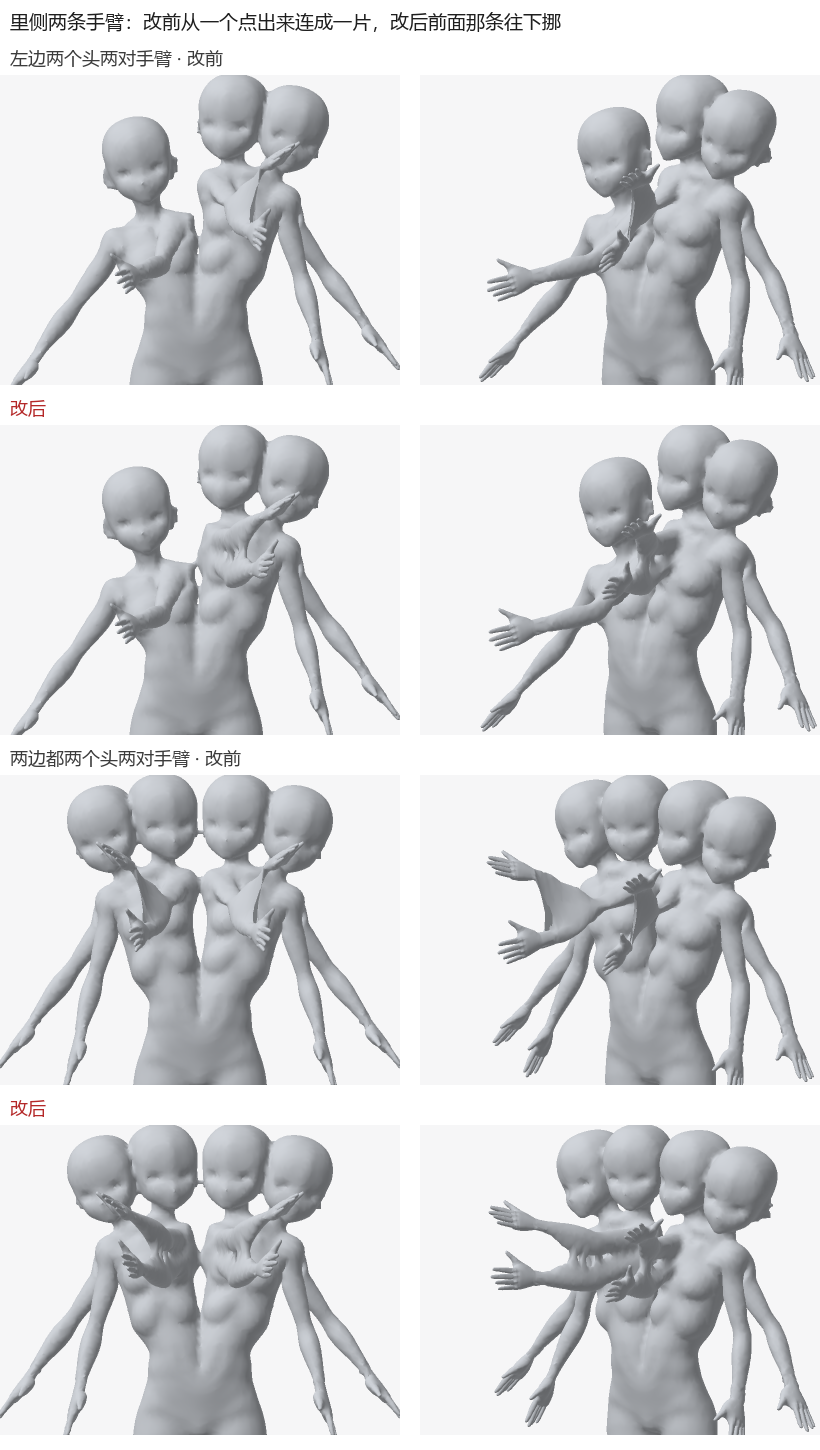
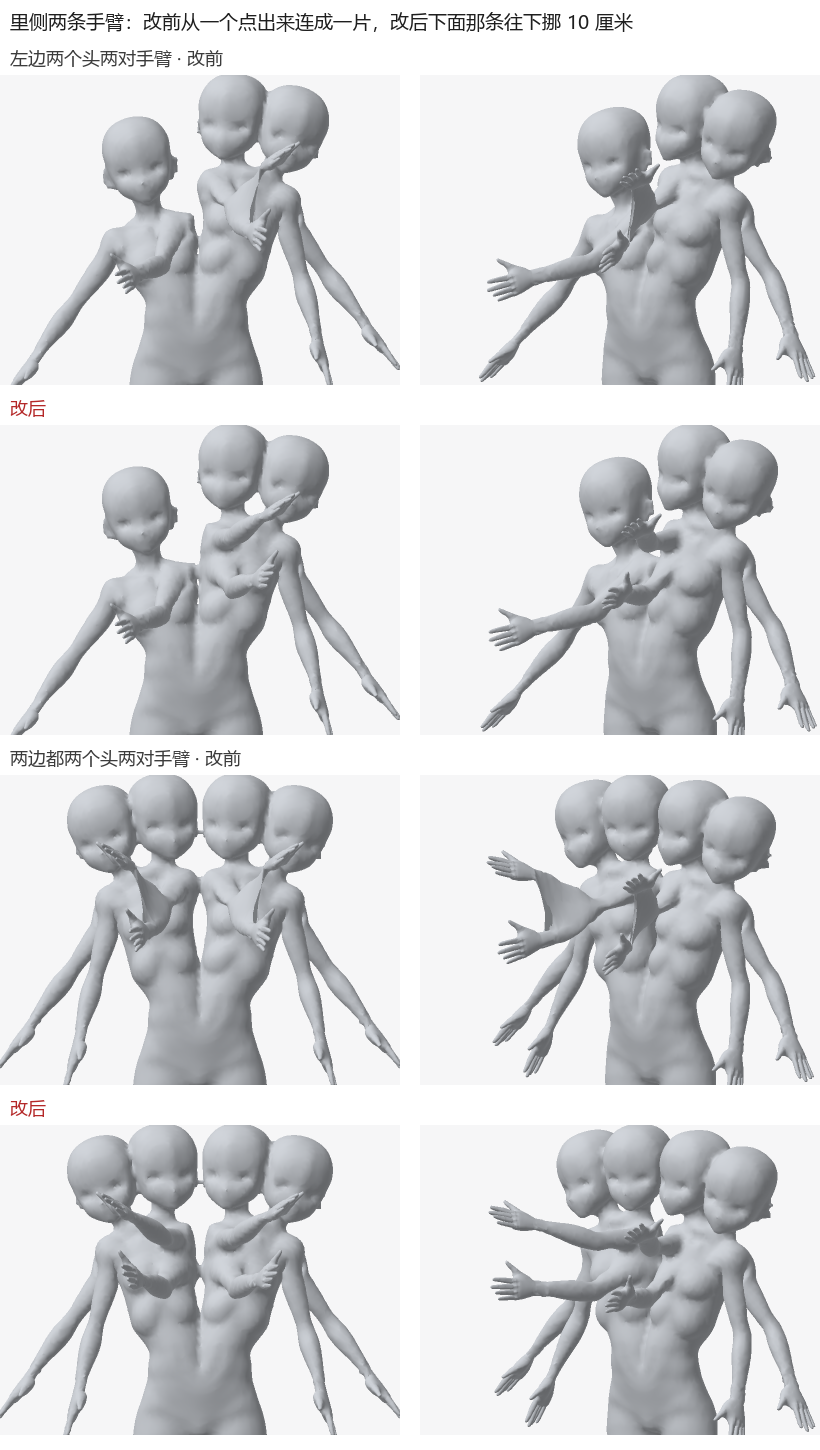
里侧挤着的两条手臂根部也分开：往下挪 10 厘米
7 厘米时两条的根还挨着（手臂连肩膀八九厘米粗），根部被圆角填满，看着还粘在一起。
挪下去的那条碰到胸往上抬，最多抬到比上面那条低 5°（根已经上下差 10 厘米，平行也碰不着）。

diff --git a/src/geometry/torsos.ts b/src/geometry/torsos.ts
@@ -112,8 +112,8 @@ export const BESIDE_DROP = 62 * (Math.PI / 180);
 export const BESIDE_YAW = 15 * (Math.PI / 180);
 const BESIDE_STEP = 30 * (Math.PI / 180);
 /** 一个肩膀上好几条里侧手臂时，前面那几条的肩关节一条比一条往下挪多少；挪下去的碰到胸往上抬，最多抬到比后一条低多少（见 besideArms） */
-const BESIDE_LOWER = 0.07;
-const BESIDE_APART = 15 * (Math.PI / 180);
+const BESIDE_LOWER = 0.1;
+const BESIDE_APART = 5 * (Math.PI / 180);
 /** 往前伸的手臂融合时抬多少：最低的那条正好抬平 */
 const INNER_BIND_LIFT = 90 * (Math.PI / 180) - INNER_ARM_DROP;
 /** 里侧一个肩膀上最多留几条聚拢的手臂，肩关节离多近算同一个肩膀 */

diff --git a/docs/per-torso-plan.md b/docs/per-torso-plan.md
@@ -39,4 +39,4 @@
 
 ## 之后修的
 
-- **两个上半身里侧挤着两条手臂时中间连成一片**（他看效果图发现的，两边一样多时也有，是第 5 期就有的老毛病）：每个上半身两对肩部聚拢的手臂、直立并排时，里侧那个肩膀上的两条从一个点出来，只差 30°（一条往前下方、一条往前平伸），根部融在一起，中间连成一片扁的蹼——正面看一道薄片，斜着看一把扇子。现在前面那条（往前下方的）肩关节照竖直方向往下挪 7 厘米（`torsos.ts` 的 BESIDE_LOWER；沿上半身自己的「往下」挪的话两个身子里侧的肩关节往正中凑，算权重时粘在一起），碰到同一边的胸就往上抬，最多抬到比上面那条低 15°（BESIDE_APART）；上下排的各在各的肩膀上，不挪。B 两头两对手那组胸 2.2 时两条一上一下平行往前伸，没有穿插。试过多抬（举到脸前面）、更往自己那边偏（还是连着）、挪下去以后只差 10°（两条交叉、插进胸里）。对比图 [docs/fix-inner-arms.png](fix-inner-arms.png)。
+- **两个上半身里侧挤着两条手臂时中间连成一片**（他看效果图发现的，两边一样多时也有，是第 5 期就有的老毛病）：每个上半身两对肩部聚拢的手臂、直立并排时，里侧那个肩膀上的两条从一个点出来，只差 30°（一条往前下方、一条往前平伸），根部融在一起，中间连成一片扁的蹼——正面看一道薄片，斜着看一把扇子。现在前面那条（往前下方的）肩关节照竖直方向往下挪 10 厘米（`torsos.ts` 的 BESIDE_LOWER；先挪 7 厘米，他说中间还粘着：手臂连肩膀八九厘米粗，7 厘米时两条的根还挨着，根部被圆角填满；沿上半身自己的「往下」挪的话两个身子里侧的肩关节往正中凑，算权重时粘在一起），碰到同一边的胸就往上抬，最多抬到比上面那条低 5°（BESIDE_APART；根已经上下差 10 厘米，平行也碰不着，低 15° 的话胸 2.2 时还插进胸 2 厘米）；上下排的各在各的肩膀上，不挪。B 两头两对手那组胸 2.2 时两条一上一下平行往前伸，没有穿插。试过多抬（举到脸前面）、更往自己那边偏（还是连着）、挪下去以后只差 10°（两条交叉、插进胸里）。对比图 [docs/fix-inner-arms.png](fix-inner-arms.png)。
